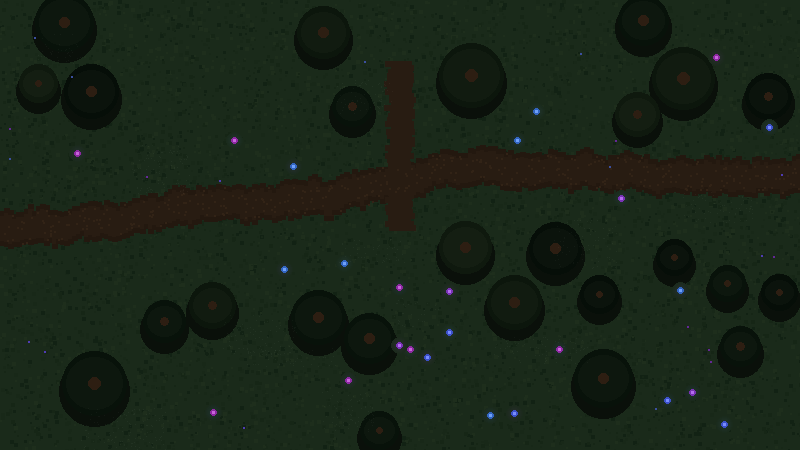
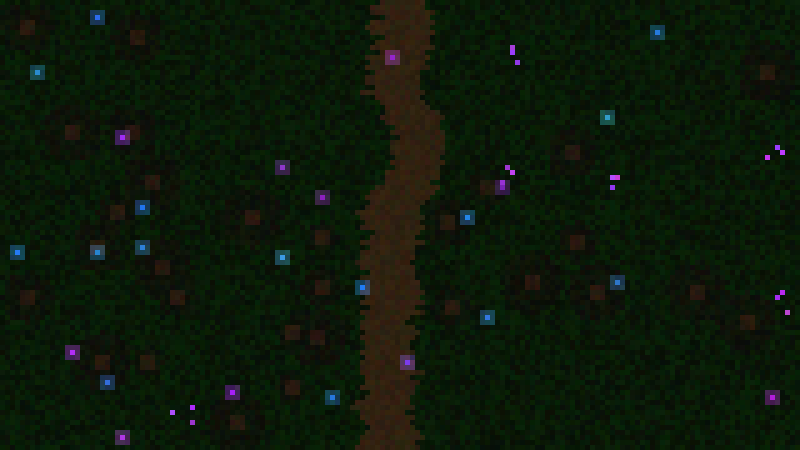
remake backgrounds with big chunky pixels (160x90 scaled to 800x450)

diff --git a/js/scenes/WoodsNightScene.js b/js/scenes/WoodsNightScene.js
@@ -2,7 +2,7 @@ class WoodsNightScene extends Phaser.Scene {
     constructor() { super('WoodsNight'); }
 
     preload() {
-        this.load.image('woods-night-bg', 'assets/backgrounds/woods-night-bg.png');
+        this.load.image('woods-night-bg', 'assets/backgrounds/woods-night-bg.png?v=3');
     }
 
     create() {

diff --git a/js/scenes/BossArenaScene.js b/js/scenes/BossArenaScene.js
@@ -2,7 +2,7 @@ class BossArenaScene extends Phaser.Scene {
     constructor() { super('BossArena'); }
 
     preload() {
-        this.load.image('boss-arena-bg', 'assets/backgrounds/boss-arena-bg.png');
+        this.load.image('boss-arena-bg', 'assets/backgrounds/boss-arena-bg.png?v=3');
     }
 
     create() {

diff --git a/js/scenes/WoodsDayScene.js b/js/scenes/WoodsDayScene.js
@@ -2,7 +2,7 @@ class WoodsDayScene extends Phaser.Scene {
     constructor() { super('WoodsDay'); }
 
     preload() {
-        this.load.image('woods-day-bg', 'assets/backgrounds/woods-day-bg.png');
+        this.load.image('woods-day-bg', 'assets/backgrounds/woods-day-bg.png?v=3');
     }
 
     create() {

diff --git a/js/scenes/VillageScene.js b/js/scenes/VillageScene.js
@@ -2,7 +2,7 @@ class VillageScene extends Phaser.Scene {
     constructor() { super('Village'); }
 
     preload() {
-        this.load.image('village-bg', 'assets/backgrounds/village-bg.png');
+        this.load.image('village-bg', 'assets/backgrounds/village-bg.png?v=3');
     }
 
     create() {
